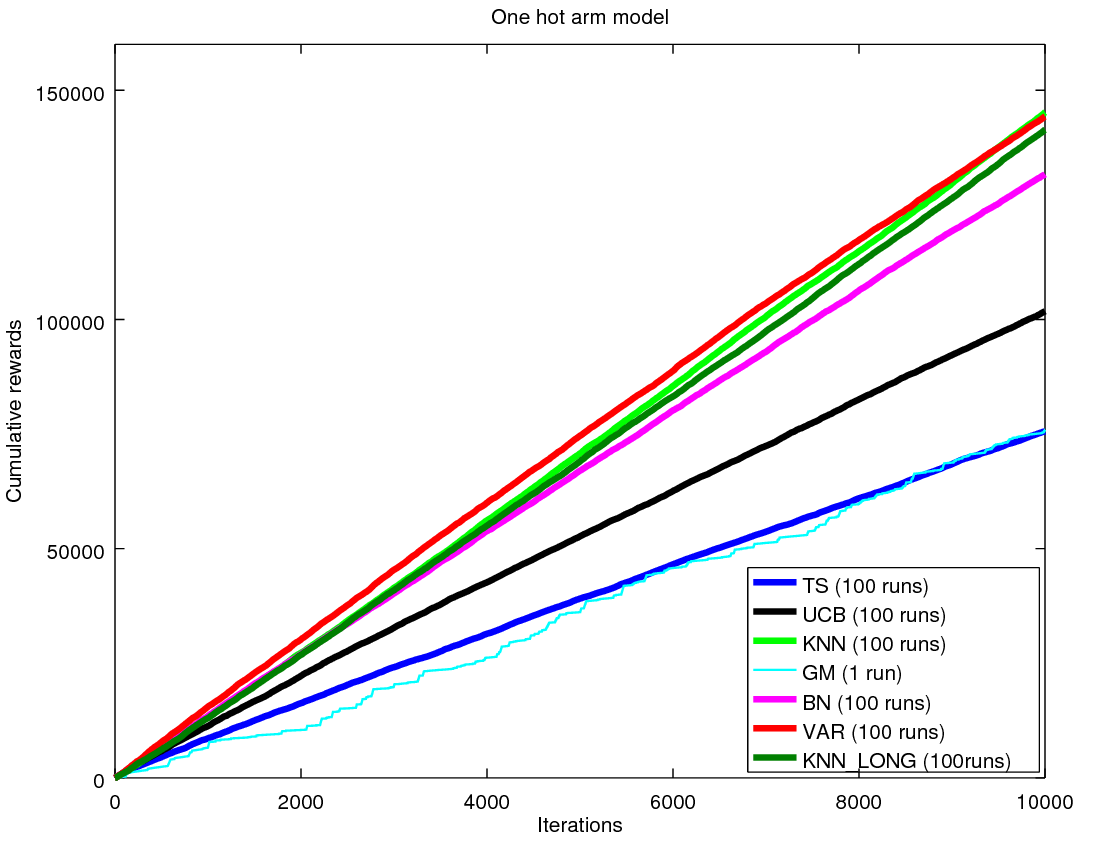
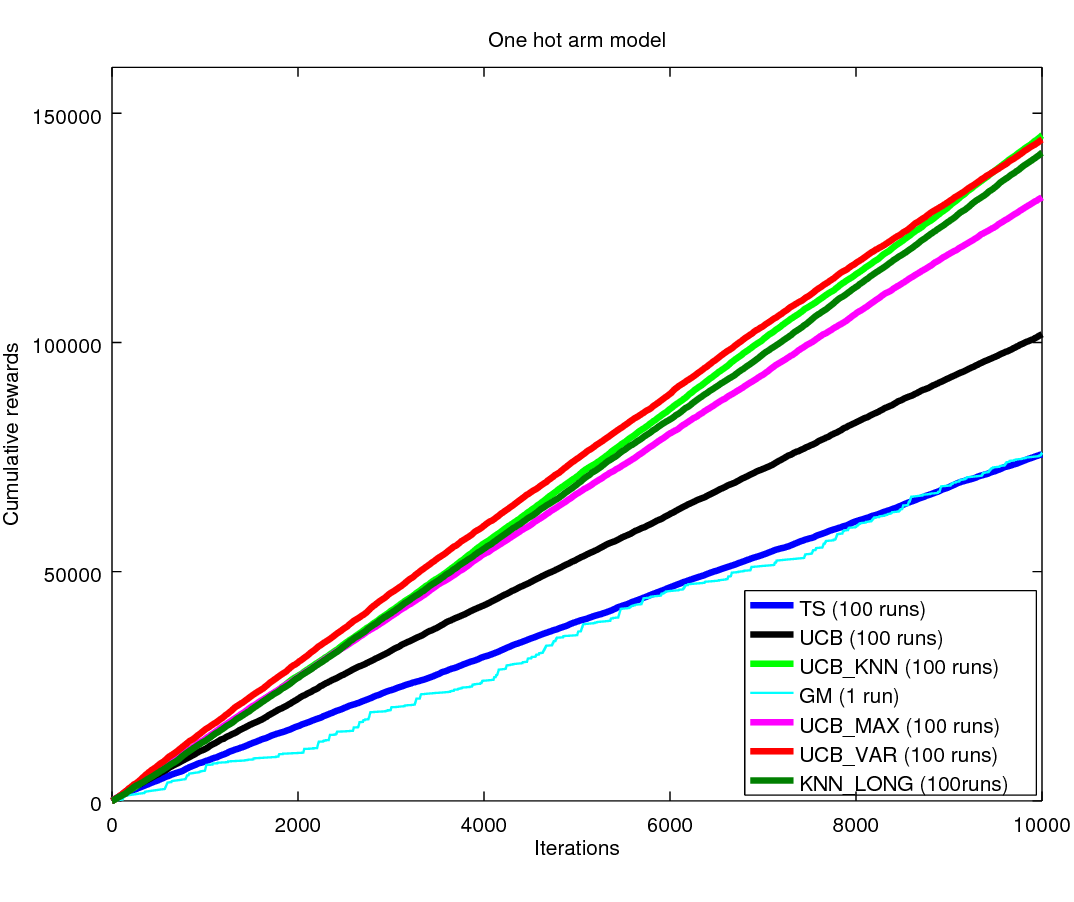
Update report

diff --git a/report/nips2015.tex b/report/nips2015.tex
@@ -169,30 +169,31 @@ Here we show the results of each algorithms presented in last sections on the mu
 		%\fbox{\rule[-.5cm]{0cm}{4cm} \rule[-.5cm]{4cm}{0cm}}
 		\includegraphics[width=1.0\textwidth]{all_10000it.png}
 	\end{center}
-	\caption{All algorithms for 10000 iterations}
+	\caption{All algorithms for 10000 iterations (3 arms * 2 states, at most one hot arm)}
 \end{figure}
 
 \begin{figure}[h]
 	\begin{minipage}[b]{.49\linewidth}
 		\includegraphics[width=1.0\textwidth]{begin_1000it.png}
-		\caption{1000 first iterations}
+		\caption{1000 first iterations (3*2, one)}
 	\end{minipage}
 	\hfill
-	\begin{minipage}[b]{0.48\linewidth}
+	\begin{minipage}[b]{0.49\linewidth}
 		\includegraphics[width=1.0\textwidth]{last_1000it.png}
-		\caption{1000 last iterations}
+		\caption{1000 last iterations (3*2, one)}
 	\end{minipage}
 	\label{fig:f}
 \end{figure}
 
 Here are the computation time observed for 10000 iterations : 
 \begin{center}
-	\begin{tabular}{rcccccc}
-		Arms : & TS & UCB & GM & KNN & UCB\_BN & UCB\_VAR \\
-		Time (sec) : & 7.12 & 2.19 & 1000.5 & 25.39 & 3.06 & 5.37
+	\begin{tabular}{rccccccc}
+		Arms : & TS & UCB & GM & UCB\_KNN & KNN\_LONG & UCB\_MAX & UCB\_VAR \\
+		Time (sec) : & 7.12 & 2.19 & 1000.5 & 25.39 & 35.85 & 3.06 & 5.37
 	\end{tabular}
 \end{center}
 
+\clearpage
 We also tried for data where several arms can become hot at the same time (with approximately the same transition probabilities) :
 
 \begin{figure}[h]
@@ -205,18 +206,19 @@ We also tried for data where several arms can become hot at the same time (with 
 \end{figure}
 
 \begin{figure}[h]
-	\begin{minipage}[b]{.48\linewidth}
+	\begin{minipage}[b]{.49\linewidth}
 		\includegraphics[width=1.0\textwidth]{begin_m_1000it.png}
 		\caption{1000 first iterations}
 	\end{minipage}
 	\hfill
-	\begin{minipage}[b]{0.48\linewidth}
+	\begin{minipage}[b]{0.49\linewidth}
 		\includegraphics[width=1.0\textwidth]{end_m_1000it.png}
 		\caption{1000 last iterations}
 	\end{minipage}
 	\label{fig:f}
 \end{figure}
 
+\clearpage
 Eventually we tried when there was 5 arms with 3 states each (with one hot arm at most) : 
 
 \begin{figure}[h]
@@ -225,18 +227,18 @@ Eventually we tried when there was 5 arms with 3 states each (with one hot arm a
 		%\fbox{\rule[-.5cm]{0cm}{4cm} \rule[-.5cm]{4cm}{0cm}}
 		\includegraphics[width=1.0\textwidth]{all_s_10000it.png}
 	\end{center}
-	\caption{All algorithms for 10000 iterations}
+	\caption{All algorithms for 10000 iterations (5 arms * 3 states, at most one hot arm)}
 \end{figure}
 
 \begin{figure}[h]
-	\begin{minipage}[b]{.48\linewidth}
+	\begin{minipage}[b]{.49\linewidth}
 		\includegraphics[width=1.0\textwidth]{begin_s_1000it.png}
-		\caption{1000 first iterations}
+		\caption{1000 first iterations (5*3, one)}
 	\end{minipage}
 	\hfill
-	\begin{minipage}[b]{0.48\linewidth}
-		\includegraphics[width=1.0\textwidth]{end_s_1000it.png}
-		\caption{1000 last iterations}
+	\begin{minipage}[b]{0.49\linewidth}
+		\includegraphics[width=1.0\textwidth]{last_s_1000it.png}
+		\caption{1000 last iterations (5*3, one)}
 	\end{minipage}
 	\label{fig:f}
 \end{figure}
